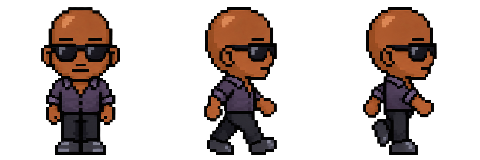
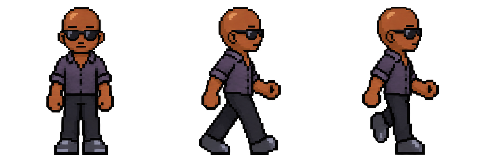
Reveal astronaut through Your Light stars and refine band lineup

Changed region(s): [[0.4062, 0.0312, 0.5938, 0.9688], [0.75, 0.0312, 0.9375, 0.9688], [0.0625, 0.0312, 0.25, 0.9688]]

diff --git a/src/App.tsx b/src/App.tsx
@@ -133,10 +133,10 @@ export default function App() {
     const next = [...signals, index]
     setSignals(next)
     try { localStorage.setItem('lls-signals', JSON.stringify(next)) } catch { /* Collection still works without storage. */ }
-    announce(next.length === 3 ? 'ALL SIGNALS FOUND. YOU’RE ONE OF US.' : `SIGNAL ${next.length} / 3 FOUND. KEEP WANDERING.`)
+    announce(next.length === 3 ? 'YOUR LIGHT FOUND A FELLOW TRAVELER.' : `YOUR LIGHT: ${next.length} / 3 STARS FOUND.`)
   }
   const toggleMotion = () => { const value = !calm; history.replaceState(null, '', `#${chapters[active].id}`); setCalm(value); try { localStorage.setItem('lls-calm', String(value)) } catch { /* Keep the visit preference. */ } }
-  const signal = (index: number) => <button className={`lost-signal signal-${index} ${signals.includes(index) ? 'collected' : ''} ${hint ? 'hinted' : ''}`} onClick={() => collect(index)} aria-label={signals.includes(index) ? 'Signal found' : `Collect the hidden signal in ${chapters[index].name}`} disabled={signals.includes(index)}><PixelIcon name="star" /><span>{signals.includes(index) ? 'FOUND' : 'A LOST SIGNAL'}</span></button>
+  const signal = (index: number) => <button className={`lost-signal signal-${index} ${signals.includes(index) ? 'collected' : ''} ${hint ? 'hinted' : ''}`} onClick={() => collect(index)} aria-label={signals.includes(index) ? 'Star found' : `Collect the hidden star in ${chapters[index].name}`} disabled={signals.includes(index)}><PixelIcon name="star" /><span>{signals.includes(index) ? 'FOUND' : 'YOUR LIGHT'}</span></button>
   return <div className={`experience ${calm ? 'calm' : ''}`}>
     <a href="#transmission" className="skip-link" onClick={e => { e.preventDefault(); goTo(2, true); setTimeout(() => document.querySelector<HTMLAnchorElement>('#transmission .platform')?.focus(), 100) }}>Skip to music</a>
     <header className="hud-top"><button className="home-mark" onClick={() => goTo(0)} aria-label="Last Living Souls, return to the beginning"><img src="/art/wordmark.png" alt="Last Living Souls" /></button><div className="coordinates"><span className="signal-light" /> LOST IN SPACE. FOUND IN SOUND.</div><div className="top-actions"><button className="listen-shortcut" onClick={() => goTo(2)}><PixelIcon name="play" /><span>Listen</span></button><button className={`map-toggle ${mapOpen ? 'selected' : ''}`} ref={mapButton} onClick={() => setMapOpen(!mapOpen)} aria-label={mapOpen ? 'Close world map' : 'Open world map'} aria-expanded={mapOpen} aria-controls="world-map"><PixelIcon name="map" /><span>{mapOpen ? 'Close' : 'World map'}</span></button></div></header>
@@ -146,9 +146,9 @@ export default function App() {
       <section className="scene scene-forest" id="forest" aria-labelledby="title-forest" inert={!calm && active !== 1}><img className="scene-art" src="/art/spore-forest.webp" alt="" /><div className="scene-shade" /><div className="scene-content forest-content"><div className="eyebrow">02 / THE SPORE FOREST</div><h2 id="title-forest">Still here.<br /><em>Still wandering.</em></h2><p>Last Living Souls.<br />Psychedelic rock for the long way home.</p><ExternalLink href={links.instagram} className="text-link">Find the souls <span>↗</span></ExternalLink></div><div className="scene-caption"><span>FOLLOW THE GLOW</span><span>LIFE FINDS A WAY.</span></div>{signal(1)}</section>
       <section className="scene scene-transmission" id="transmission" aria-labelledby="title-transmission" inert={!calm && active !== 2}><img className="scene-art" src="/art/sanctuary.webp" alt="" loading="lazy" /><div className="scene-shade" /><div className="scene-content transmission-content"><div className="eyebrow"><span className="signal-light" /> SIGNAL ACQUIRED</div><h2 id="title-transmission">Are you<br /><em>receiving us?</em></h2><p>Pick a frequency. Let it take you somewhere.</p><MusicLinks /><div className="frequency"><span /> LAST LIVING SOULS <span /></div></div><div className="scene-caption"><span>03 / THE TRANSMISSION</span><span>TURN ON. TUNE IN. DRIFT OUT.</span></div></section>
       <section className="scene scene-sanctuary" id="sanctuary" aria-labelledby="title-sanctuary" inert={!calm && active !== 3}><img className="scene-art" src="/art/spore-forest.webp" alt="" loading="lazy" /><div className="scene-shade" /><div className="scene-content sanctuary-content"><div className="eyebrow">04 / THE LIVING STAGE</div><div className="release-layout"><div className="record-art"><img src="/art/shouldve-known.jpg" alt="Should’ve Known, single artwork" width="300" height="300" loading="lazy" /><span className="record-tag">A TRANSMISSION FROM EARTH</span></div><div className="release-copy"><span className="release-label">LAST LIVING SOULS / SINGLE</span><h2 id="title-sanctuary">Should’ve<br /><em>Known.</em></h2><p>For wherever your mind wanders next.</p><button className="pixel-button" onClick={() => setPlayerOpen(!playerOpen)} aria-expanded={playerOpen} aria-controls="spotify-player"><PixelIcon name={playerOpen ? 'pause' : 'play'} />{playerOpen ? 'Close player' : 'Listen to the single'}</button><ExternalLink href={links.track} className="small-link">Open in Spotify ↗</ExternalLink></div></div>{playerOpen && <div className="embedded-player" id="spotify-player"><iframe title="Listen to Should’ve Known by Last Living Souls on Spotify" src="https://open.spotify.com/embed/track/6h5yX5qxLx8IW2afIuMXt7?theme=0" width="100%" height="152" allow="autoplay; clipboard-write; encrypted-media; fullscreen; picture-in-picture" /></div>}</div><div className="scene-caption"><span>YOU FOUND THE SOUND</span><span>TAKE A LITTLE OF IT WITH YOU.</span></div>{signal(3)}</section>
-      <section className="scene scene-portal" id="portal" aria-labelledby="title-portal" inert={!calm && active !== 4}><img className="scene-art" src="/art/sanctuary.webp" alt="" loading="lazy" /><div className="scene-shade" /><div className="scene-content portal-content"><div className="eyebrow">05 / THE PORTAL</div><h2 id="title-portal">The end is<br /><em>another beginning.</em></h2><p>Stay in our orbit.</p><div className="social-links">{(['instagram', 'tiktok', 'facebook'] as const).map(name => <ExternalLink key={name} href={links[name]} className={`social-key ${name}`} label={`Last Living Souls on ${name} (opens in a new tab)`}><PixelIcon name={name} /><span>{name === 'tiktok' ? 'TikTok' : name[0].toUpperCase() + name.slice(1)}</span></ExternalLink>)}</div><div className={`completion ${signals.length === 3 ? 'complete' : ''}`}><PixelIcon name="star" /><span>{signals.length === 3 ? 'ALL SIGNALS FOUND. YOU’RE ONE OF US.' : `${signals.length} / 3 LOST SIGNALS FOUND`}</span></div><button className="text-link" onClick={() => goTo(0)}>Wander again <span>↶</span></button></div><div className="scene-caption"><span>LAST LIVING SOULS © {new Date().getFullYear()}</span><span>THANKS FOR GETTING LOST WITH US.</span></div></section>
-    </div><BandTravelers />{!calm && <div className="traveler" aria-hidden="true"><div className="traveler-float"><img src="/art/astronaut.png" alt="" width="444" height="426" /><div className="traveler-shadow" /></div></div>}<div className="scanlines" aria-hidden="true" /></div></main>
-    <footer className="hud-bottom"><div className="bottom-left"><button className="motion-button" onClick={toggleMotion} aria-pressed={calm} title="Switch between the animated journey and a still scrolling view"><span className="motion-symbol">{calm ? 'Ⅱ' : '≈'}</span><span>{calm ? 'Still mode' : 'Motion on'}</span></button><span className="hud-divider" /><button className="signal-counter" onClick={() => { setHint(!hint); announce(hint ? 'HINTS OFF. HAPPY WANDERING.' : 'LOOK FOR THE THREE GLOWING GOLD STARS.') }} aria-pressed={hint} aria-label={`${signals.length} of 3 lost signals found. ${hint ? 'Hide' : 'Show'} hints`}><PixelIcon name="star" /><span>{signals.length}<span className="dim"> / 3</span></span><span className="counter-label">SIGNALS</span></button></div><nav className="chapter-dots" aria-label="Quick chapter navigation">{chapters.map((chapter, i) => <button key={chapter.id} className={active === i ? 'active' : ''} onClick={() => goTo(i)} aria-label={`${i + 1}. ${chapter.name}`} aria-current={active === i ? 'location' : undefined}><span /><span className="dot-label">{chapter.name}</span></button>)}</nav><button className="next-chapter" onClick={() => goTo(active === 4 ? 0 : active + 1)}><span>{active === 4 ? 'Back to the beginning' : 'Keep exploring'}</span><span className="next-arrow">→</span></button><div className="journey-progress" aria-hidden="true"><div ref={bar} /></div></footer>
+      <section className="scene scene-portal" id="portal" aria-labelledby="title-portal" inert={!calm && active !== 4}><img className="scene-art" src="/art/sanctuary.webp" alt="" loading="lazy" /><div className="scene-shade" /><div className="scene-content portal-content"><div className="eyebrow">05 / THE PORTAL</div><h2 id="title-portal">The end is<br /><em>another beginning.</em></h2><p>Stay in our orbit.</p><div className="social-links">{(['instagram', 'tiktok', 'facebook'] as const).map(name => <ExternalLink key={name} href={links[name]} className={`social-key ${name}`} label={`Last Living Souls on ${name} (opens in a new tab)`}><PixelIcon name={name} /><span>{name === 'tiktok' ? 'TikTok' : name[0].toUpperCase() + name.slice(1)}</span></ExternalLink>)}</div><div className={`completion ${signals.length === 3 ? 'complete' : ''}`}><PixelIcon name="star" /><span>{signals.length === 3 ? 'YOUR LIGHT FOUND US.' : `YOUR LIGHT: ${signals.length} / 3 STARS FOUND`}</span></div><button className="text-link" onClick={() => goTo(0)}>Wander again <span>↶</span></button></div><div className="scene-caption"><span>LAST LIVING SOULS © {new Date().getFullYear()}</span><span>THANKS FOR GETTING LOST WITH US.</span></div></section>
+    </div><BandTravelers />{signals.length === 3 && <div className="traveler" aria-hidden="true"><div className="traveler-arrival"><div className="traveler-float"><img src="/art/astronaut.png" alt="" width="444" height="426" /><div className="traveler-shadow" /></div></div></div>}<div className="scanlines" aria-hidden="true" /></div></main>
+    <footer className="hud-bottom"><div className="bottom-left"><button className="motion-button" onClick={toggleMotion} aria-pressed={calm} title="Switch between the animated journey and a still scrolling view"><span className="motion-symbol">{calm ? 'Ⅱ' : '≈'}</span><span>{calm ? 'Still mode' : 'Motion on'}</span></button><span className="hud-divider" /><button className="signal-counter" onClick={() => { setHint(!hint); announce(hint ? 'HINTS OFF. HAPPY WANDERING.' : 'LOOK FOR THE THREE GLOWING GOLD STARS.') }} aria-pressed={hint} aria-label={`${signals.length} of 3 Your Light stars found. ${hint ? 'Hide' : 'Show'} hints`}><PixelIcon name="star" /><span>{signals.length}<span className="dim"> / 3</span></span><span className="counter-label">YOUR LIGHT</span></button></div><nav className="chapter-dots" aria-label="Quick chapter navigation">{chapters.map((chapter, i) => <button key={chapter.id} className={active === i ? 'active' : ''} onClick={() => goTo(i)} aria-label={`${i + 1}. ${chapter.name}`} aria-current={active === i ? 'location' : undefined}><span /><span className="dot-label">{chapter.name}</span></button>)}</nav><button className="next-chapter" onClick={() => goTo(active === 4 ? 0 : active + 1)}><span>{active === 4 ? 'Back to the beginning' : 'Keep exploring'}</span><span className="next-arrow">→</span></button><div className="journey-progress" aria-hidden="true"><div ref={bar} /></div></footer>
     <div className={`toast ${message ? 'visible' : ''}`} role="status">{message}</div><div className="sr-only" aria-live="polite">Chapter {active + 1}: {chapters[active].name}</div><div className="ambient-specks" aria-hidden="true">{Array.from({ length: 14 }, (_, i) => <i key={i} style={{ '--x': `${(i * 29 + 11) % 100}%`, '--y': `${(i * 17 + 24) % 100}%`, '--delay': `${-i * 1.7}s`, '--size': `${i % 3 + 1}px` } as CSSProperties} />)}</div>
   </div>
 }

diff --git a/src/App.css b/src/App.css
@@ -28,3 +28,8 @@
 @media(max-height:500px) and (min-width:601px){.experience .world .traveler{left:85%;bottom:82px;width:58px}}
 @media(max-width:600px){.forest-content h2{font-size:clamp(54px,16vw,68px)}.chapter-dots button{width:32px}.hud-bottom{padding-left:15px}.chapter-dots{right:12px}.bottom-left{gap:9px}}
 @media(max-height:500px) and (min-width:601px){.hud-top{height:64px;padding:0 24px}.home-mark{width:95px}.hud-bottom{height:58px;padding:0 24px}.scene-caption{display:none}.opening-content{top:21%;width:330px}.opening-content .eyebrow{font-size:13px;letter-spacing:1.5px;margin-bottom:12px}.opening-line{display:none}.opening-content .pixel-button{margin-top:16px;padding:10px 16px;min-height:40px;font-size:17px!important}.scroll-instruction{font-size:12px;margin-top:12px}.traveler{width:60px;bottom:17%;left:80%}.scene-content{top:22%}.scene-content h2{font-size:56px;margin-bottom:13px}.scene-content p{font-size:14px;margin-bottom:8px}.forest-content .text-link{font-size:18px!important;padding:7px 0}.eyebrow{font-size:14px;margin-bottom:15px}.transmission-content{top:22%;width:92%;display:grid;grid-template-columns:1fr 1fr;column-gap:30px;align-items:center}.transmission-content .eyebrow{grid-column:1;grid-row:1}.transmission-content h2{grid-column:1;grid-row:2;margin:0}.transmission-content p{grid-column:1;grid-row:3;font-size:12px;margin-top:10px}.transmission-content .music-links{grid-column:2;grid-row:1/4}.transmission-content .frequency{display:none}.sanctuary-content{top:20%;width:65%}.record-art{width:140px}.release-copy h2{font-size:50px}.release-copy p{display:none}.release-label{font-size:12px;margin-bottom:10px}.small-link{margin-top:12px}.release-copy .pixel-button{font-size:16px!important;min-height:40px;padding:10px 14px}.portal-content{top:22%;width:90%;display:grid;grid-template-columns:1fr 1fr;gap:6px 25px;align-items:center}.portal-content>.eyebrow,.portal-content>h2,.portal-content>p{grid-column:1}.portal-content h2{font-size:51px;margin-bottom:10px}.portal-content p{font-size:14px}.portal-content .social-links{grid-column:2;grid-row:1/3;margin:0}.portal-content .completion{grid-column:2;grid-row:3;font-size:12px;margin:0}.portal-content .text-link{grid-column:2;grid-row:4;justify-self:center;padding:4px 0}.world-map{top:65px;max-height:calc(100svh - 80px);overflow:auto}.world-map>button{padding:12px 0}.embedded-player{top:20px;width:65%}}
+
+/* The astronaut joins the journey only after all three Your Light stars are found. */
+.traveler-arrival{animation:astronaut-arrive 1.2s ease-out both}
+@keyframes astronaut-arrive{from{opacity:0;transform:translateY(45px)}to{opacity:1;transform:translateY(0)}}
+.calm .world .traveler{position:fixed}

diff --git a/src/components/BandTravelers.tsx b/src/components/BandTravelers.tsx
@@ -6,18 +6,16 @@ const members = [
   { id: 'drew', name: 'Drew', role: 'Bass', height: 1, delay: -.27 },
   { id: 'daniel', name: 'Daniel', role: 'Lead vocals / lead guitar', height: .9, delay: 0 },
   { id: 'dan', name: 'Dan', role: 'Drums', height: .8, delay: -.19 },
-  { id: 'zane', name: 'Zane', role: 'Keys', height: .92, delay: -.07 },
+  { id: 'zane', name: 'Zane', role: 'Keys', height: 1, delay: -.07 },
 ]
 
 /** Three frames per sheet: front idle, right step A, right step B. */
 export default function BandTravelers() {
   return <ul className="band-travelers" aria-label="Meet Last Living Souls">
     {members.map(member => <li className="band-member" key={member.id}
-      title={`${member.name}${member.role ? ` · ${member.role}` : ''}`}
       style={{ '--member-height': member.height, '--step-delay': `${member.delay}s`, '--sprite': `url(/art/band/${member.id}.png)` } as CSSProperties}>
       <span className="band-sprite" aria-hidden="true" />
-      <span className="member-name">{member.name}</span>
-      {member.role && <span className="sr-only"> — {member.role}</span>}
+      <span className="sr-only">{member.name}{member.role ? ` — ${member.role}` : ''}</span>
     </li>)}
   </ul>
 }

diff --git a/src/components/BandTravelers.css b/src/components/BandTravelers.css
@@ -31,15 +31,6 @@
   image-rendering: pixelated;
   transform-origin: center bottom;
 }
-.member-name {
-  padding: 3px 5px;
-  margin-top: 2px;
-  color: #ffe8cc;
-  text-shadow: 1px 2px 0 #0b061a, -1px -1px 0 #0b061a;
-  font: 16px/1 'VT323', monospace;
-  letter-spacing: 1px;
-  text-transform: uppercase;
-}
 .world.traveling .band-sprite {
   animation: band-walk .36s steps(1, end) var(--step-delay) infinite;
 }
@@ -55,14 +46,12 @@
 @media (max-width: 600px) {
   .band-travelers { --band-size: clamp(76px, 22vw, 96px); bottom: 108px; gap: 0; }
   .band-member { width: calc(var(--band-size) * .71); }
-  .member-name { font-size: 14px; letter-spacing: .5px; margin-top: 0; padding: 3px 1px; }
 }
 @media (max-height: 730px) and (max-width: 600px) {
   .band-travelers { --band-size: 76px; bottom: 103px; }
 }
 @media (max-height: 500px) and (min-width: 601px) {
   .band-travelers { --band-size: 74px; bottom: 63px; left: 22%; }
-  .member-name { font-size: 13px; }
 }
 @media (prefers-reduced-motion: reduce) {
   .world.traveling .band-sprite { background-position: 0 0; transform: none; }

diff --git a/docs/BUILD_NOTES.md b/docs/BUILD_NOTES.md
@@ -15,7 +15,7 @@ Five horizontal stages driven by native vertical scroll, original pixel-art envi
 - Locally hosted fonts: public/fonts/ (VT323 and DM Sans from Google Fonts; SIL Open Font License).
 - Exact original landscape prompts: docs/art-prompts.json. Generated with the built-in imagegen tool, exported to WebP for the website.
 - Band lineup, names, roles and height differences: src/components/BandTravelers.tsx.
-- Band sprites and three-frame metadata: public/art/band/. The first frame faces front; the other two face right. Scrolling backward mirrors only the character, never the label.
+- Band sprites and three-frame metadata: public/art/band/. The first frame faces front; the other two face right. Scrolling backward mirrors only the character, while accessible member descriptions remain unchanged. Visible member names are intentionally omitted.
 - Band animation and responsive sizing: src/components/BandTravelers.css. Native scroll controls direction and starts the stepping cycle; 180 ms without movement returns the band to the front-facing pose. Still mode and reduced-motion preferences disable stepping.
 - Sprite preparation: scripts/prepare-band-sprites.mjs accepts a folder of five generated three-cell strips and aligns/scales them without redrawing the artwork. Exact image-generation briefs are saved in docs/band-art-prompts.json.
 
@@ -28,7 +28,7 @@ Spotify track: https://open.spotify.com/track/6h5yX5qxLx8IW2afIuMXt7
 Apple Music artist verified by matching band and track: https://music.apple.com/us/artist/last-living-souls/1838556536
 Instagram, Facebook, and TikTok were retained from the existing site. Unresolved generic YouTube and Discord links were omitted rather than directing visitors to service homepages. No show dates, booking details, or band biographies were fabricated.
 
-The subsequent band-character update uses the supplied band_photo.png found in Downloads/attachments. Daniel, Drew, Dan and Norris follow the user's identification and the photo's outfits. Zane follows the user's description: Black, bald, sunglasses, keys. Norris's role has not been specified, so her label uses only her name. The original astronaut remains intact and floats beside the band.
+The subsequent band-character update uses the supplied band_photo.png found in Downloads/attachments. Daniel, Drew, Dan and Norris follow the user's identification and the photo's outfits. Zane follows the user's description: Black, bald, sunglasses, keys. Norris's role has not been specified, so her screen-reader description uses only her name. Zane was revised with a smaller head, longer body, and the same displayed height as Drew. His final built-in imagegen edit prompt is in docs/zane-proportions-prompt.txt; the full-resolution strip is in design/band-sprites/zane.png. The original astronaut remains intact as an Easter egg: collecting all three Your Light stars reveals him. Collection progress persists between visits, and the reward remains visible without animation in still mode.
 
 ## Verification
 
@@ -45,3 +45,9 @@ The subsequent band-character update uses the supplied band_photo.png found in D
 ## Behavior and privacy
 
 No new analytics, account system, contact form, or backend was added. Existing optional tracking initialization is preserved but no tracking IDs were copied into the working build. Local storage holds only motion preference and collected signal numbers. The site can be used when storage is unavailable. Reduced motion defaults from the device setting. A no-JavaScript fallback links directly to the band's music.
+
+## Your Light refinement verification
+
+- Verified the astronaut is hidden with two collected stars and appears after collecting the third through the local browser UI.
+- Verified the completion message and 3/3 counter, mobile layout at 390 × 844, and astronaut visibility in still mode.
+- Inspected the final lineup with no visible names and Zane matching Drew’s overall height.
